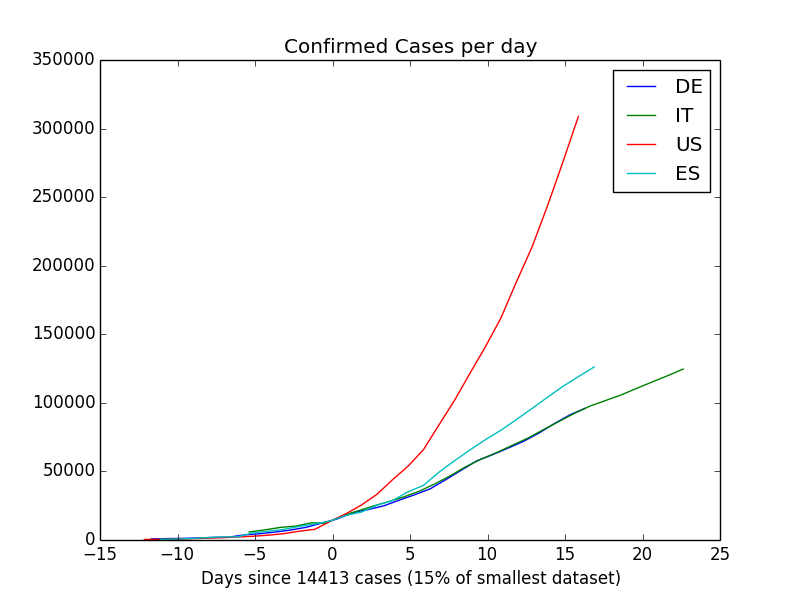
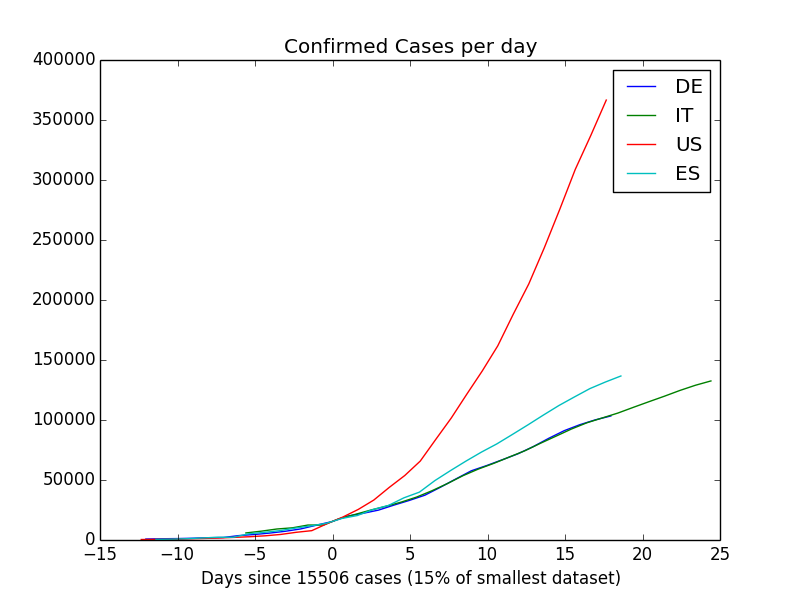
Update figures with data from April, 6th

diff --git a/create_plots.py b/create_plots.py
@@ -6,7 +6,6 @@ import matplotlib.pyplot as plt
 
 import data.csse
 from plots.cumulative_data import plot_normalized_cumulative_data
-from plots.death_rate import plot_normalized_death_rate
 
 def update_date_in_readme():
     for line in fileinput.input("README.md", inplace=1):
@@ -20,5 +19,3 @@ update_date_in_readme()
 plot_normalized_cumulative_data("Confirmed Cases per day", "figures/cases.png", 0.15, ("DE", data.csse.get_cases("Germany")), ("IT", data.csse.get_cases("Italy")), ("US", data.csse.get_cases("US")), ("ES", data.csse.get_cases("Spain")))
 
 plot_normalized_cumulative_data("Deaths per day", "figures/deaths.png", 0.15, ("DE", data.csse.get_deaths("Germany")), ("IT", data.csse.get_deaths("Italy")), ("US", data.csse.get_deaths("US")), ("ES", data.csse.get_deaths("Spain")))
-
-#plot_normalized_death_rate("death_rate", "us", 7, data.csse.get_cases("US"), data.csse.get_deaths("US"))

diff --git a/README.md b/README.md
@@ -2,7 +2,7 @@
 
 Data is taken from the [2019 Novel Coronavirus COVID-19 Data Repository by Johns Hopkins CSSE](https://github.com/CSSEGISandData/COVID-19)
 
-### Last update: 04.04.2020
+### Last update: 06.04.2020
 
 ### Cases
 
